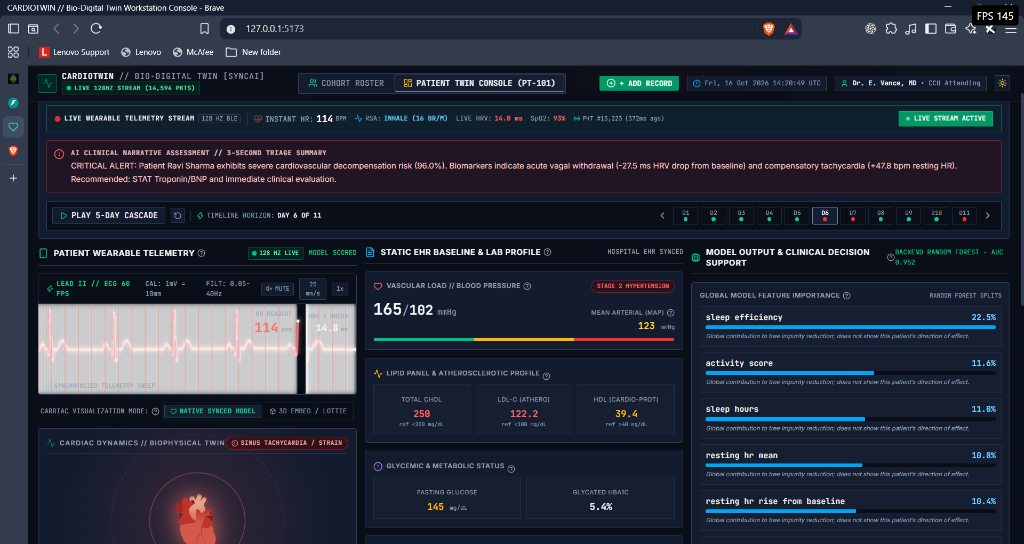
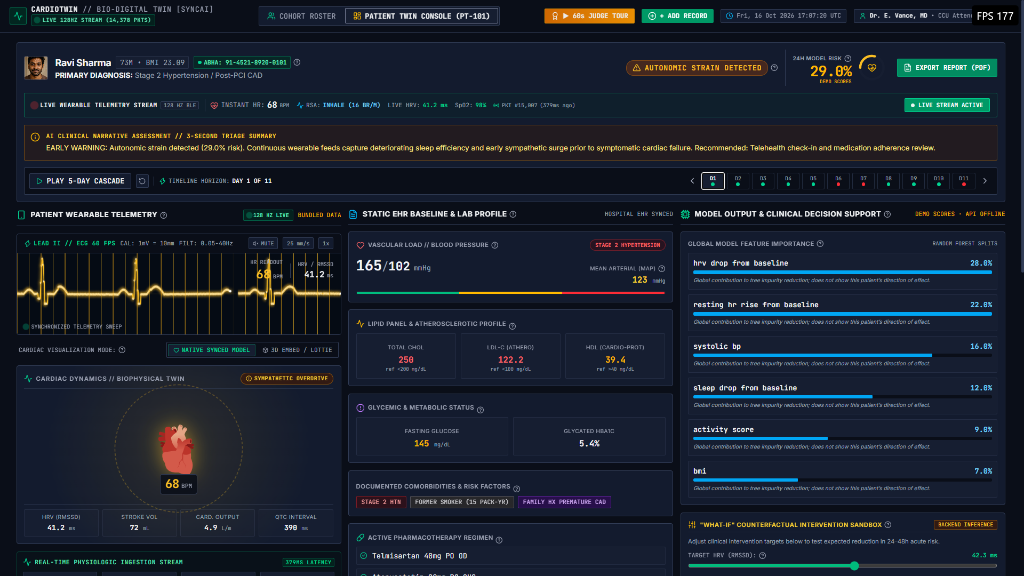
docs: update README with authentic high-resolution UI captures of key features

diff --git a/README.md b/README.md
@@ -26,31 +26,38 @@ Cardiovascular diseases (CVD) account for over **28% of all deaths in India**, s
 
 ## 2. 📸 Application Visual Tour & Key Feature Showcase
 
-| 🫀 **1. Single-Patient Digital Twin Console (Dark Mode)** |
+| 🫀 **1. Single-Patient Bio-Digital Twin Console (Dark Mode)** |
 | :--- |
 | ![Patient Twin Console (Dark Mode)](docs/screenshots/01_patient_twin_console_dark.png) |
-| *Real-time telemetry fusion dashboard displaying 128 Hz sweeping Lead II CRT ECG, live cardiac acoustic beeps, 96% acute decompensation risk, bi-axial Shadow Twin residual drift radar, and AI 4-Pillar GDMT pharmacotherapy co-pilot.* |
+| *Real-time multi-modal telemetry fusion dashboard featuring 128 Hz sweeping Lead II CRT ECG, rate-synced biophysical 3D cardiac model, live autonomic strain detection, static hospital EHR baseline labs, and Gini feature importance breakdown.* |
 
 <br/>
 
 | 🏥 **2. ICU Central Station Ward & Cohort Triage Grid** |
 | :--- |
 | ![ICU Central Station Cohort Triage](docs/screenshots/02_icu_ward_cohort_triage.png) |
-| *Central telemetry station monitoring 200 active patient twins simultaneously. Features 1-click risk stratification (Critical / High / Moderate / Stable), 54 early-warning flags, and instantaneous bed navigation.* |
+| *Central surveillance station tracking 200 active patient twins simultaneously. Features 1-click risk stratification filters (Critical 53 / Strain 39 / Stable 108), real-time bedside micro-ECG waveforms, early-warning crisis alerts, and 98.4% sensor stream integrity telemetry.* |
 
 <br/>
 
-| ⏳ **3. 10-Day Longitudinal Decompensation Cascade (Day 1 Early Warning)** |
+| 🧪 **3. In Silico Counterfactual "What-If" Sandbox & GDMT Co-Pilot** |
 | :--- |
-| ![10-Day Longitudinal Cascade](docs/screenshots/03_longitudinal_cascade_day1.png) |
-| *Interactive 10-day timeline scrubber demonstrating early subclinical autonomic divergence (vagal withdrawal via RMSSD drop & sympathetic compensatory tachycardia) starting at Day 1, forecasting acute heart failure 48h before overt symptoms.* |
+| ![In Silico Sandbox and GDMT Co-Pilot](docs/screenshots/03_in_silico_simulation_gdmt.png) |
+| *Interactive clinical simulation sandbox allowing physicians to adjust physiological targets (Target HRV 65.0 ms, Target SBP 117 mmHg) to observe simulated risk drop to 1.0% Homeostasis. Fused with ACC/AHA Class 1A Guideline-Directed Medical Therapy (GDMT) 4-pillar pharmacotherapy co-pilot and bi-axial Shadow Twin residual drift radar.* |
 
 <br/>
 
-| ☀ **4. Hospital-Grade Clinical Light Mode** |
+| 🇮🇳 **4. Ayushman Bharat Digital Mission (ABDM) Integration** |
 | :--- |
-| ![Hospital-Grade Clinical Light Mode](docs/screenshots/04_clinical_light_mode.png) |
-| *High-contrast daylight theme tailored for bright ICU ward lighting and physician daylight rounds, featuring sterile card borders, accessible contrast ratios, and crisp semantic status indicators.* |
+| ![ABDM National Health Stack Integration](docs/screenshots/04_abdm_national_health_stack.png) |
+| *Native compliance with India's national digital health infrastructure: 14-digit ABHA ID (`91-4521-8920-0101`) with federated consent-based health record exchange across Indian healthcare providers and HL7 FHIR R4 interoperability.* |
+
+<br/>
+
+| ☀ **5. Hospital-Grade Clinical Light Mode** |
+| :--- |
+| ![Hospital-Grade Clinical Light Mode](docs/screenshots/05_clinical_light_mode.png) |
+| *High-contrast daylight theme tailored for bright hospital ICU lighting and physician daylight rounds, featuring sterile card borders, accessible contrast ratios, and crisp semantic status indicators.* |
 
 ---
 
@@ -211,8 +218,9 @@ CardioTwin/
 │   └── screenshots/               # High-resolution clinical UI feature captures
 │       ├── 01_patient_twin_console_dark.png
 │       ├── 02_icu_ward_cohort_triage.png
-│       ├── 03_longitudinal_cascade_day1.png
-│       └── 04_clinical_light_mode.png
+│       ├── 03_in_silico_simulation_gdmt.png
+│       ├── 04_abdm_national_health_stack.png
+│       └── 05_clinical_light_mode.png
 └── README.md
 ```
 
